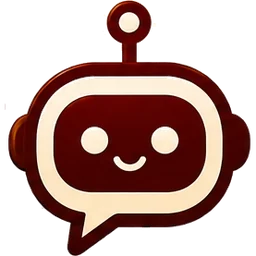
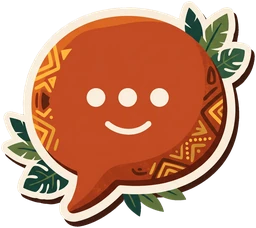
Atualiza ilustrações indígenas, chatbot e adiciona Esperança Garcia
- Substitui a personagem indígena da página indígena e a colagem do card do portal
- Novo ícone e frase do chatbot, com proporção e posição revisadas
- Atalho do chatbot passa a abrir o WhatsApp (92) 99227-0565
- Adiciona Esperança Garcia ao carrossel de histórias, com biografia e fontes

diff --git a/negras.html b/negras.html
@@ -69,11 +69,11 @@
 
     <section class="secao projeto textura" id="projeto" aria-labelledby="titulo-projeto">
       <div class="container carrossel" role="region" aria-roledescription="carrossel"
-        aria-label="Falas de Maria, Marielle Franco, Felipa Maria Aranha e Irmã Helena Walcott">
+        aria-label="Falas de Maria, Marielle Franco, Felipa Maria Aranha, Irmã Helena Walcott e Esperança Garcia">
         <div class="carrossel__janela" aria-live="off">
           <div class="carrossel__trilho">
             <article class="carrossel__slide projeto__grade" id="falas-de-maria" role="group"
-              aria-roledescription="slide" aria-label="1 de 4: Falas de Maria">
+              aria-roledescription="slide" aria-label="1 de 5: Falas de Maria">
               <button class="projeto__imagem" type="button" data-bio="bio-maria" aria-haspopup="dialog" aria-label="Abrir a biografia de Maria"><img src="assets/optimized/maria-colagem.webp"
                   alt="Colagem editorial de Maria com retrato em sépia, círculo dourado, folhas terracota e grafismo geométrico."
                   width="1448" height="1086" loading="lazy"><span class="projeto__selo" aria-hidden="true">Ler biografia +</span></button>
@@ -89,7 +89,7 @@
               </div>
             </article>
             <article class="carrossel__slide projeto__grade" id="marielle" role="group" aria-roledescription="slide"
-              aria-label="2 de 4: Marielle Franco">
+              aria-label="2 de 5: Marielle Franco">
               <button class="projeto__imagem" type="button" data-bio="bio-marielle" aria-haspopup="dialog" aria-label="Abrir a biografia de Marielle Franco"><img src="assets/optimized/marielle-franco.webp"
                   alt="Ilustração em colagem de Marielle Franco diante de uma lua cheia, com turbante, colares, folhas e a paisagem do Rio de Janeiro."
                   width="1058" height="1100" loading="lazy"><span class="projeto__selo" aria-hidden="true">Ler biografia +</span></button>
@@ -106,7 +106,7 @@
               </div>
             </article>
             <article class="carrossel__slide projeto__grade" id="felipa" role="group" aria-roledescription="slide"
-              aria-label="3 de 4: Felipa Maria Aranha">
+              aria-label="3 de 5: Felipa Maria Aranha">
               <button class="projeto__imagem" type="button" data-bio="bio-felipa" aria-haspopup="dialog" aria-label="Abrir a biografia de Felipa Maria Aranha"><img src="assets/optimized/felipa-maria-aranha.webp"
                   alt="Ilustração de Felipa Maria Aranha com turbante amarelo de grafismos geométricos, brincos dourados em espiral e colares de contas coloridas."
                   width="1100" height="821" loading="lazy"><span class="projeto__selo" aria-hidden="true">Ler biografia +</span></button>
@@ -122,7 +122,7 @@
               </div>
             </article>
             <article class="carrossel__slide projeto__grade" id="irma-helena" role="group" aria-roledescription="slide"
-              aria-label="4 de 4: Irmã Helena Walcott">
+              aria-label="4 de 5: Irmã Helena Walcott">
               <button class="projeto__imagem" type="button" data-bio="bio-irma-helena" aria-haspopup="dialog" aria-label="Abrir a biografia de Irmã Helena Augusta Walcott"><img src="assets/optimized/irma-helena-walcott.webp"
                   alt="Ilustração de Irmã Helena Augusta Walcott, senhora negra sorridente de cabelos brancos, com lenço azul e amarelo, blusa estampada e corrente com crucifixo."
                   width="1100" height="873" loading="lazy"><span class="projeto__selo" aria-hidden="true">Ler biografia +</span></button>
@@ -134,6 +134,23 @@
                   Manaus nas décadas de 1970 e 1980, ao lado de famílias que não tinham onde morar.</p>
                 <p>Sua atuação foi fundamental na criação de mais de 15 bairros, como Novo Israel, Terra Nova e Zumbi dos
                   Palmares, e ajudou cerca de 500 mil pessoas a conquistar moradia. Uma história de luta contada na nossa cidade.</p>
+                <a class="link-seta" href="index.html#datas">Ver datas e locais</a>
+              </div>
+            </article>
+            <article class="carrossel__slide projeto__grade" id="esperanca-garcia" role="group" aria-roledescription="slide"
+              aria-label="5 de 5: Esperança Garcia">
+              <button class="projeto__imagem" type="button" data-bio="bio-esperanca-garcia" aria-haspopup="dialog" aria-label="Abrir a biografia de Esperança Garcia"><img src="assets/optimized/esperanca-garcia.webp"
+                  alt="Ilustração de Esperança Garcia, mulher negra com lenço claro na cabeça e blusa bege, segurando uma carta manuscrita diante de um sol dourado, folhas e grafismos."
+                  width="1100" height="859" loading="lazy"><span class="projeto__selo" aria-hidden="true">Ler biografia +</span></button>
+              <div class="projeto__texto">
+                <p class="sobretitulo">A voz da carta,</p>
+                <h2 id="titulo-esperanca-garcia">Esperança Garcia</h2>
+                <img class="divisor" src="assets/divisor-cultural.svg" alt="" aria-hidden="true">
+                <p>Esperança Garcia foi uma mulher negra escravizada no Piauí que, em 6 de setembro de 1770, escreveu uma
+                  carta ao governador da capitania denunciando os maus-tratos sofridos por ela, pelos filhos e por outras
+                  mulheres da fazenda.</p>
+                <p>Num tempo em que pessoas escravizadas eram proibidas de estudar, ela usou a escrita para exigir direitos.
+                  Em 2022, a OAB a reconheceu como a primeira advogada do Brasil.</p>
                 <a class="link-seta" href="index.html#datas">Ver datas e locais</a>
               </div>
             </article>
@@ -193,7 +210,7 @@
       <nav class="rodape__navegacao" aria-label="Navegação do rodapé">
         <h2>Navegue</h2>
         <a href="#falas-de-maria">Falas de Maria</a><a href="#marielle">Marielle
-          Franco</a><a href="#felipa">Felipa Maria Aranha</a><a href="#irma-helena">Irmã Helena Walcott</a><a href="index.html#datas">Datas e locais</a>
+          Franco</a><a href="#felipa">Felipa Maria Aranha</a><a href="#irma-helena">Irmã Helena Walcott</a><a href="#esperanca-garcia">Esperança Garcia</a><a href="index.html#datas">Datas e locais</a>
       </nav>
       <div class="rodape__canais">
         <h2>Canais oficiais</h2>
@@ -224,14 +241,14 @@
     <div class="container rodape__base"><span>© 2026 UNIESBAM · Cultura Afro e Indígena</span><span class="rodape__credito">Desenvolvido por <a href="https://github.com/HenriquePvAr/LaddingPage" target="_blank" rel="noopener noreferrer">Projeto Mira</a></span></div>
   </footer>
 
-  <button class="atalho-chat" type="button" aria-expanded="false" aria-controls="painel-chat"
-    aria-label="Abrir o chatbot">
-    <img class="atalho-chat__icone" src="assets/optimized/chatbot.webp" alt="" width="256" height="256">
-    <img class="atalho-chat__rotulo" src="assets/optimized/chatbot-rotulo.webp" alt="" width="480" height="129">
-  </button>
+  <a class="atalho-chat" href="https://wa.me/5592992270565" target="_blank" rel="noopener noreferrer"
+    aria-label="Conversar pelo WhatsApp, (92) 99227-0565, abre em nova aba">
+    <img class="atalho-chat__icone" src="assets/optimized/chatbot.webp" alt="" width="256" height="228">
+    <img class="atalho-chat__rotulo" src="assets/optimized/chatbot-rotulo.webp" alt="" width="560" height="129">
+  </a>
   <div class="painel-chat" id="painel-chat" role="dialog" aria-labelledby="titulo-chat" aria-modal="true" hidden>
     <div class="painel-chat__cabeca">
-      <img src="assets/optimized/chatbot.webp" alt="" width="38" height="38">
+      <img src="assets/optimized/chatbot.webp" alt="" width="38" height="34">
       <div>
         <p class="painel-chat__nome" id="titulo-chat">Chat do encontro</p>
         <p class="painel-chat__estado">UNIESBAM · Cultura Afro e Indígena</p>
@@ -335,6 +352,28 @@
       <h3>Memória</h3>
       <p>A história de Irmã Helena mostra que muitos bairros de Manaus nasceram da organização popular, e não apenas de planos oficiais. Seu nome está na Escola Municipal Helena Augusta Walcott e nas comunidades que ajudou a erguer.</p>
       <p class="bio-modal__fontes">Fontes: <a href="https://amazoniareal.com.br/a-luta-da-mae-dos-sem-teto-irma-helena/" target="_blank" rel="noopener noreferrer">Amazônia Real</a>; <a href="https://portalamazonia.com/cultura/helena-augusta-walcott-bairros-manaus/" target="_blank" rel="noopener noreferrer">Portal Amazônia</a>, ambos com base na pesquisa de Mara Tereza Oliveira de Assis.</p>
+    </div>
+  </dialog>
+  <dialog class="bio-modal" id="bio-esperanca-garcia" aria-labelledby="bio-esperanca-garcia-titulo">
+    <div class="bio-modal__corpo">
+      <button class="bio-modal__fechar" type="button" aria-label="Fechar a biografia">×</button>
+      <img class="bio-modal__imagem" src="assets/optimized/esperanca-garcia.webp" alt="" width="1100" height="859">
+      <p class="sobretitulo">A voz da carta,</p>
+      <h2 id="bio-esperanca-garcia-titulo">Esperança Garcia</h2>
+      <img class="divisor" src="assets/divisor-cultural.svg" alt="" aria-hidden="true">
+      <p>Esperança Garcia foi uma mulher negra escravizada que viveu no Piauí do século XVIII. Morava na Fazenda Algodões, uma das propriedades que haviam sido administradas pelos jesuítas até a expulsão da ordem, decretada pelo Marquês de Pombal, e que passaram ao controle da Coroa portuguesa.</p>
+      <h3>A carta de 1770</h3>
+      <ul>
+        <li>Em 6 de setembro de 1770, escreveu uma carta ao governador da Capitania de São José do Piauí, Gonçalo Lourenço Botelho de Castro.</li>
+        <li>Denunciou a violência que ela, seus filhos e outras mulheres sofriam nas mãos do administrador da fazenda.</li>
+        <li>Reclamou de ter sido separada do marido e de não poder batizar os filhos, e pediu para voltar à fazenda onde vivia com a família.</li>
+        <li>Numa época em que pessoas escravizadas eram proibidas de aprender a ler e a escrever, usou a escrita para reivindicar direitos perante a autoridade.</li>
+      </ul>
+      <h3>Redescoberta</h3>
+      <p>A carta foi encontrada em 1979 pelo historiador Luiz Mott no Arquivo Público do Piauí, misturada a outros documentos sem identificação. Desde então, Esperança Garcia se tornou símbolo do movimento negro piauiense, e o dia 6 de setembro passou a ser o Dia Estadual da Consciência Negra no Piauí.</p>
+      <h3>Primeira advogada do Brasil</h3>
+      <p>Por ter feito uma petição em defesa de direitos, Esperança Garcia recebeu da OAB Piauí, em 2017, o título simbólico de primeira advogada piauiense. Em novembro de 2022, o Conselho Federal da OAB a reconheceu como a primeira advogada do Brasil, e em 2023 um busto em sua homenagem foi inaugurado na sede da entidade, em Brasília.</p>
+      <p class="bio-modal__fontes">Não se conhecem as datas de nascimento e morte de Esperança Garcia, e a imagem é uma ilustração representativa. Fontes: <a href="https://www.oab.org.br/noticia/59999/juristas-que-marcaram-a-historia-do-pais-esperanca-garcia" target="_blank" rel="noopener noreferrer">OAB Nacional</a>; <a href="https://www.brasildefato.com.br/2024/11/21/conheca-esperanca-garcia-negra-escravizada-e-primeira-mulher-advogada-do-brasil/" target="_blank" rel="noopener noreferrer">Brasil de Fato</a>; <a href="https://agenciabrasil.ebc.com.br/direitos-humanos/noticia/2024-11/carta-historica-de-esperanca-garcia-desaparece-e-revolta-pesquisadores" target="_blank" rel="noopener noreferrer">Agência Brasil</a>.</p>
     </div>
   </dialog>
 </body>

diff --git a/css/estilos.css b/css/estilos.css
@@ -194,12 +194,13 @@ body.modal-aberto { overflow: hidden; }
 .chamado-museu__acao > span, .chamado-museu__acao::before, .chamado-museu__acao::after { display:none !important; content:none !important; }
 .chamado-museu__acao:hover { text-decoration:underline; text-underline-offset:3px; }
 
-.atalho-chat { position: fixed; z-index: 25; right: 18px; bottom: 18px; display: flex; width: 72px; flex-direction: column; align-items: center; gap: 2px; padding: 0; border: 0; background: transparent; cursor: pointer; transition: transform .2s ease; }
-.atalho-chat__icone { width: 62px; height: 62px; object-fit: contain; filter: drop-shadow(0 8px 14px rgb(41 25 20 / 30%)); }
-.atalho-chat__rotulo { width: 66px; height: auto; filter: drop-shadow(0 4px 8px rgb(41 25 20 / 25%)); }
+/* Proporção inspirada no chat do suporte Microsoft: ícone de 64px a 48px das bordas, com a frase por cima. */
+.atalho-chat { position: fixed; z-index: 25; right: 48px; bottom: 48px; display: flex; flex-direction: column-reverse; align-items: flex-end; gap: 4px; padding: 0; border: 0; background: transparent; text-decoration: none; cursor: pointer; transition: transform .2s ease; }
+.atalho-chat__icone { width: 64px; height: 64px; flex: none; object-fit: contain; filter: drop-shadow(0 6px 12px rgb(41 25 20 / 30%)); }
+.atalho-chat__rotulo { width: 170px; max-width: none; height: auto; filter: drop-shadow(0 3px 6px rgb(41 25 20 / 35%)); }
 .atalho-chat:hover, .atalho-chat:focus-visible { transform: translateY(-3px); }
 .atalho-chat:focus-visible { outline: 3px solid var(--dourado); outline-offset: 4px; border-radius: 12px; }
-.painel-chat { position: fixed; z-index: 26; right: 18px; bottom: 116px; display: flex; width: min(360px, calc(100vw - 24px)); max-height: min(560px, calc(100vh - 136px)); flex-direction: column; overflow: hidden; border: 1px solid #d7b994; border-radius: 18px; color: var(--espresso); background: var(--creme); box-shadow: 0 18px 40px rgb(41 25 20 / 22%); }
+.painel-chat { position: fixed; z-index: 26; right: 48px; bottom: 168px; display: flex; width: min(360px, calc(100vw - 24px)); max-height: min(560px, calc(100vh - 188px)); flex-direction: column; overflow: hidden; border: 1px solid #d7b994; border-radius: 18px; color: var(--espresso); background: var(--creme); box-shadow: 0 18px 40px rgb(41 25 20 / 22%); }
 .painel-chat[hidden] { display: none; }
 .painel-chat__cabeca { display: grid; grid-template-columns: 42px 1fr auto; align-items: center; gap: 10px; padding: 12px 12px 10px; color: var(--creme); background: var(--espresso-profundo); }
 .painel-chat__cabeca img { width: 42px; height: 42px; object-fit: contain; }
@@ -282,10 +283,10 @@ body.modal-aberto { overflow: hidden; }
   .chamado-museu__cartao { padding:0; }
   .chamado-museu__corpo { padding:16px 16px 20px; }
   .chamado-museu__imagem { height:190px; }
-  .atalho-chat { right: 10px; bottom: 10px; width: 58px; }
-  .atalho-chat__icone { width: 50px; height: 50px; }
-  .atalho-chat__rotulo { width: 54px; }
-  .painel-chat { right:10px; bottom:calc(92px + env(safe-area-inset-bottom)); width:min(360px,calc(100vw - 20px)); max-height:min(560px,calc(100dvh - 112px - env(safe-area-inset-bottom))); }
+  .atalho-chat { right: 16px; bottom: calc(16px + env(safe-area-inset-bottom)); align-items: flex-end; gap: 4px; }
+  .atalho-chat__icone { width: 54px; height: 54px; }
+  .atalho-chat__rotulo { width: 140px; }
+  .painel-chat { right:10px; bottom:calc(118px + env(safe-area-inset-bottom)); width:min(360px,calc(100vw - 20px)); max-height:min(560px,calc(100dvh - 138px - env(safe-area-inset-bottom))); }
   .painel-chat__formulario input { min-height:44px; font-size:16px; }
   .painel-chat__sugestoes button, .painel-chat__formulario button, .painel-chat__fechar { min-height:44px; }
   .chamado-museu__grade { grid-template-columns: 1fr; }

diff --git a/index.html b/index.html
@@ -49,7 +49,7 @@
       <div class="cultura__texto"><h3>Mulheres negras</h3><p>Memórias de resistência e conquistas.</p><span>Conhecer a cultura negra </span></div>
     </a>
     <a class="cultura cultura--indigena" href="indigenas.html">
-      <div class="cultura__arte"><img src="assets/optimized/mulher-indigena-colagem.webp" alt="Colagem artística de uma mulher indígena com cocar de penas coloridas, pintura facial e colares, diante de um sol dourado, folhas e grafismos." width="1600" height="1264"></div>
+      <div class="cultura__arte"><img src="assets/optimized/mulher-indigena-colagem.webp" alt="Colagem artística de uma mulher indígena com cocar de penas coloridas, pintura facial e colares, diante de um sol dourado, folhas e grafismos." width="1978" height="1535"></div>
       <div class="cultura__texto"><h3>Mulheres indígenas</h3><p>Saberes ancestrais e culturas vivas.</p><span>Conhecer as culturas indígenas </span></div>
     </a>
   </div>
@@ -136,14 +136,14 @@
       </div>
     </div>
     <div class="container rodape__base"><span>© 2026 UNIESBAM · Cultura Afro e Indígena</span><span class="rodape__credito">Desenvolvido por <a href="https://github.com/HenriquePvAr/LaddingPage" target="_blank" rel="noopener noreferrer">Projeto Mira</a></span></div>
-  </footer>  <button class="atalho-chat" type="button" aria-expanded="false" aria-controls="painel-chat"
-    aria-label="Abrir o chatbot">
-    <img class="atalho-chat__icone" src="assets/optimized/chatbot.webp" alt="" width="256" height="256">
-    <img class="atalho-chat__rotulo" src="assets/optimized/chatbot-rotulo.webp" alt="" width="480" height="129">
-  </button>
+  </footer>  <a class="atalho-chat" href="https://wa.me/5592992270565" target="_blank" rel="noopener noreferrer"
+    aria-label="Conversar pelo WhatsApp, (92) 99227-0565, abre em nova aba">
+    <img class="atalho-chat__icone" src="assets/optimized/chatbot.webp" alt="" width="256" height="228">
+    <img class="atalho-chat__rotulo" src="assets/optimized/chatbot-rotulo.webp" alt="" width="560" height="129">
+  </a>
   <div class="painel-chat" id="painel-chat" role="dialog" aria-labelledby="titulo-chat" aria-modal="true" hidden>
     <div class="painel-chat__cabeca">
-      <img src="assets/optimized/chatbot.webp" alt="" width="38" height="38">
+      <img src="assets/optimized/chatbot.webp" alt="" width="38" height="34">
       <div>
         <p class="painel-chat__nome" id="titulo-chat">Chat do encontro</p>
         <p class="painel-chat__estado">UNIESBAM · Cultura Afro e Indígena</p>

diff --git a/indigenas.html b/indigenas.html
@@ -37,7 +37,7 @@
         <img class="ind-hero__pincelada" src="assets/indigenas/05_pincelada_laranja.png" alt="" aria-hidden="true">
         <p>Hist&oacute;rias de resist&ecirc;ncia, saberes ancestrais, dores e lutas de povos que mant&ecirc;m vivas suas culturas, territ&oacute;rios e modos de vida.</p>
       </div>
-      <img class="ind-hero__personagem" src="assets/optimized/02_personagem_indigena_espelhada_transparente.webp" alt="Ilustra&ccedil;&atilde;o art&iacute;stica de uma mulher ind&iacute;gena com cocar de penas coloridas, adornos e pintura facial." width="1536" height="1024">
+      <img class="ind-hero__personagem" src="assets/optimized/02_personagem_indigena_espelhada_transparente.webp" alt="Ilustra&ccedil;&atilde;o art&iacute;stica de uma mulher ind&iacute;gena com cocar de penas coloridas, adornos e pintura facial." width="896" height="1200">
     </section>
     <section class="vozes" id="vozes" aria-labelledby="titulo-vozes">
       <div class="container">
@@ -322,14 +322,14 @@
     <div class="container rodape__base"><span>© 2026 UNIESBAM · Cultura Afro e Indígena</span><span class="rodape__credito">Desenvolvido por <a href="https://github.com/HenriquePvAr/LaddingPage" target="_blank" rel="noopener noreferrer">Projeto Mira</a></span></div>
   </footer>
 
-<button class="atalho-chat" type="button" aria-expanded="false" aria-controls="painel-chat"
-    aria-label="Abrir o chatbot">
-    <img class="atalho-chat__icone" src="assets/optimized/chatbot.webp" alt="" width="256" height="256">
-    <img class="atalho-chat__rotulo" src="assets/optimized/chatbot-rotulo.webp" alt="" width="480" height="129">
-  </button>
+<a class="atalho-chat" href="https://wa.me/5592992270565" target="_blank" rel="noopener noreferrer"
+    aria-label="Conversar pelo WhatsApp, (92) 99227-0565, abre em nova aba">
+    <img class="atalho-chat__icone" src="assets/optimized/chatbot.webp" alt="" width="256" height="228">
+    <img class="atalho-chat__rotulo" src="assets/optimized/chatbot-rotulo.webp" alt="" width="560" height="129">
+  </a>
   <div class="painel-chat" id="painel-chat" role="dialog" aria-labelledby="titulo-chat" aria-modal="true" hidden>
     <div class="painel-chat__cabeca">
-      <img src="assets/optimized/chatbot.webp" alt="" width="38" height="38">
+      <img src="assets/optimized/chatbot.webp" alt="" width="38" height="34">
       <div>
         <p class="painel-chat__nome" id="titulo-chat">Chat do encontro</p>
         <p class="painel-chat__estado">UNIESBAM · Cultura Afro e Indígena</p>

diff --git a/js/script.js b/js/script.js
@@ -210,7 +210,8 @@ if ('IntersectionObserver' in window) {
 }
 
 // Abre um chatbot local com respostas sobre o encontro, o museu e o WhatsApp.
-const atalhoChat = document.querySelector('.atalho-chat');
+// Só é ativado quando o atalho é um <button>; como link (<a>), o atalho leva direto ao WhatsApp.
+const atalhoChat = document.querySelector('button.atalho-chat');
 const painelChat = document.querySelector('#painel-chat');
 const mensagensChat = painelChat?.querySelector('.painel-chat__mensagens');
 const formularioChat = painelChat?.querySelector('.painel-chat__formulario');
